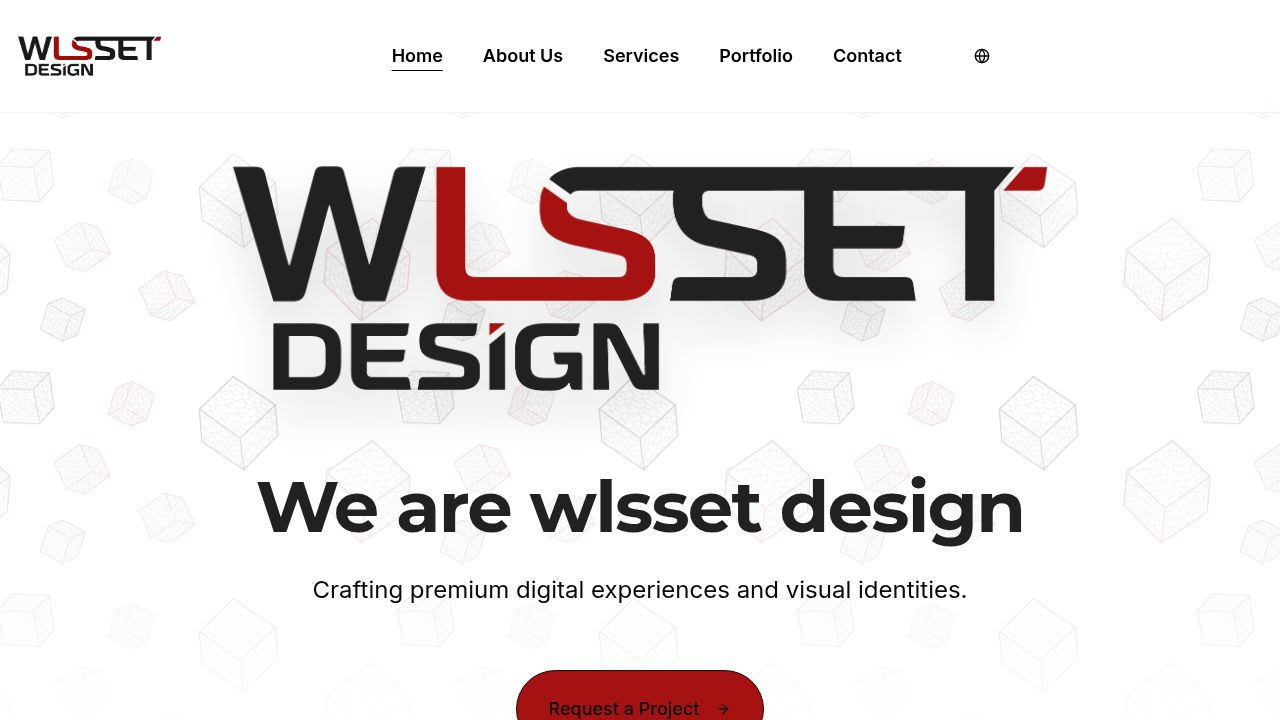
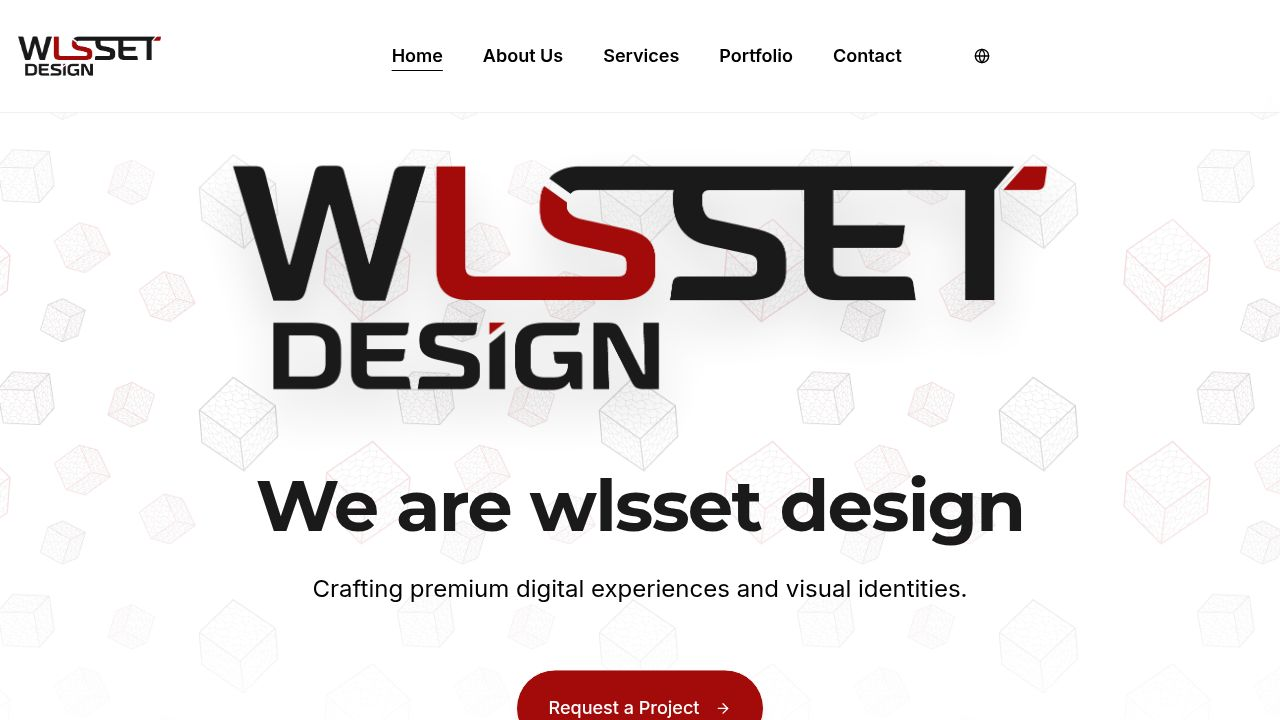
Update forms to send data to the Google Apps Script deployment URL
Refactors ServiceRequestForm.tsx and Contact.tsx to use fetch API for POST requests to the provided Google Apps Script deployment URL, replacing previous mock submission logic.

Replit-Commit-Author: Agent
Replit-Commit-Session-Id: 5eee5087-db8d-4f81-8bb3-b942de4c4c12
Replit-Commit-Checkpoint-Type: full_checkpoint
Replit-Commit-Event-Id: cbfa001a-1366-4f01-ab1b-a0eb0eaf570d
Replit-Commit-Screenshot-Url: https://storage.googleapis.com/screenshot-production-us-central1/71fbc351-6bea-450e-a02c-e2fa0099b8e3/5eee5087-db8d-4f81-8bb3-b942de4c4c12/P8qYYSg
Replit-Helium-Checkpoint-Created: true

diff --git a/client/src/pages/Contact.tsx b/client/src/pages/Contact.tsx
@@ -35,17 +35,48 @@ export default function Contact() {
 
   async function onSubmit(values: z.infer<typeof formSchema>) {
     setIsSubmitting(true);
-    // Simulate API call to Google Sheets/Gmail
-    await new Promise(resolve => setTimeout(resolve, 2000));
     
-    console.log("Form submitted:", values);
+    try {
+      const APPS_SCRIPT_URL = "https://script.google.com/macros/s/AKfycbyXy7Mh4dIpiChqd57MIp8oX0MLBkDWfP8YUVoL_U3sRG1lv205Q9LaQPzFM9gO3-Sg/exec";
+      
+      const response = await fetch(APPS_SCRIPT_URL, {
+        method: "POST",
+        body: JSON.stringify({
+          name: values.name,
+          email: values.email,
+          phone: "",
+          service: "General Inquiry",
+          preferredColors: "",
+          fontStyle: "",
+          designNotes: values.message,
+          company: values.company,
+        }),
+      });
+      
+      const result = await response.json();
+      
+      if (result.success) {
+        toast({
+          title: "Request Sent",
+          description: "We'll get back to you shortly.",
+        });
+        form.reset();
+      } else {
+        toast({
+          title: "Error",
+          description: result.message || "Failed to submit form",
+          variant: "destructive",
+        });
+      }
+    } catch (error) {
+      console.error("Submission error:", error);
+      toast({
+        title: "Error",
+        description: "Failed to submit form. Please try again.",
+        variant: "destructive",
+      });
+    }
     
-    toast({
-      title: "Request Sent",
-      description: "We'll get back to you shortly.",
-    });
-    
-    form.reset();
     setIsSubmitting(false);
   }
 

diff --git a/client/src/components/ServiceRequestForm.tsx b/client/src/components/ServiceRequestForm.tsx
@@ -70,18 +70,43 @@ export default function ServiceRequestForm({
     setIsSubmitting(true);
     
     const fullFormData = {
-      ...userInfo,
+      name: userInfo?.name,
+      email: userInfo?.email,
+      phone: userInfo?.phone,
       service: serviceName,
-      ...values,
-      submittedAt: new Date().toISOString(),
+      preferredColors: values.preferredColors,
+      fontStyle: values.fontStyle,
+      designNotes: values.designNotes,
     };
 
-    console.log("Service Request Submission:", fullFormData);
+    try {
+      const APPS_SCRIPT_URL = "https://script.google.com/macros/s/AKfycbyXy7Mh4dIpiChqd57MIp8oX0MLBkDWfP8YUVoL_U3sRG1lv205Q9LaQPzFM9gO3-Sg/exec";
+      
+      const response = await fetch(APPS_SCRIPT_URL, {
+        method: "POST",
+        body: JSON.stringify(fullFormData),
+      });
+      
+      const result = await response.json();
+      
+      if (result.success) {
+        setIsSubmitted(true);
+      } else {
+        toast({
+          title: "Error",
+          description: result.message || "Failed to submit form",
+          variant: "destructive",
+        });
+      }
+    } catch (error) {
+      console.error("Submission error:", error);
+      toast({
+        title: "Error",
+        description: "Failed to submit form. Please try again.",
+        variant: "destructive",
+      });
+    }
     
-    // Simulate API call to Google Sheets/Gmail via backend
-    await new Promise(resolve => setTimeout(resolve, 1500));
-    
-    setIsSubmitted(true);
     setIsSubmitting(false);
   };
 